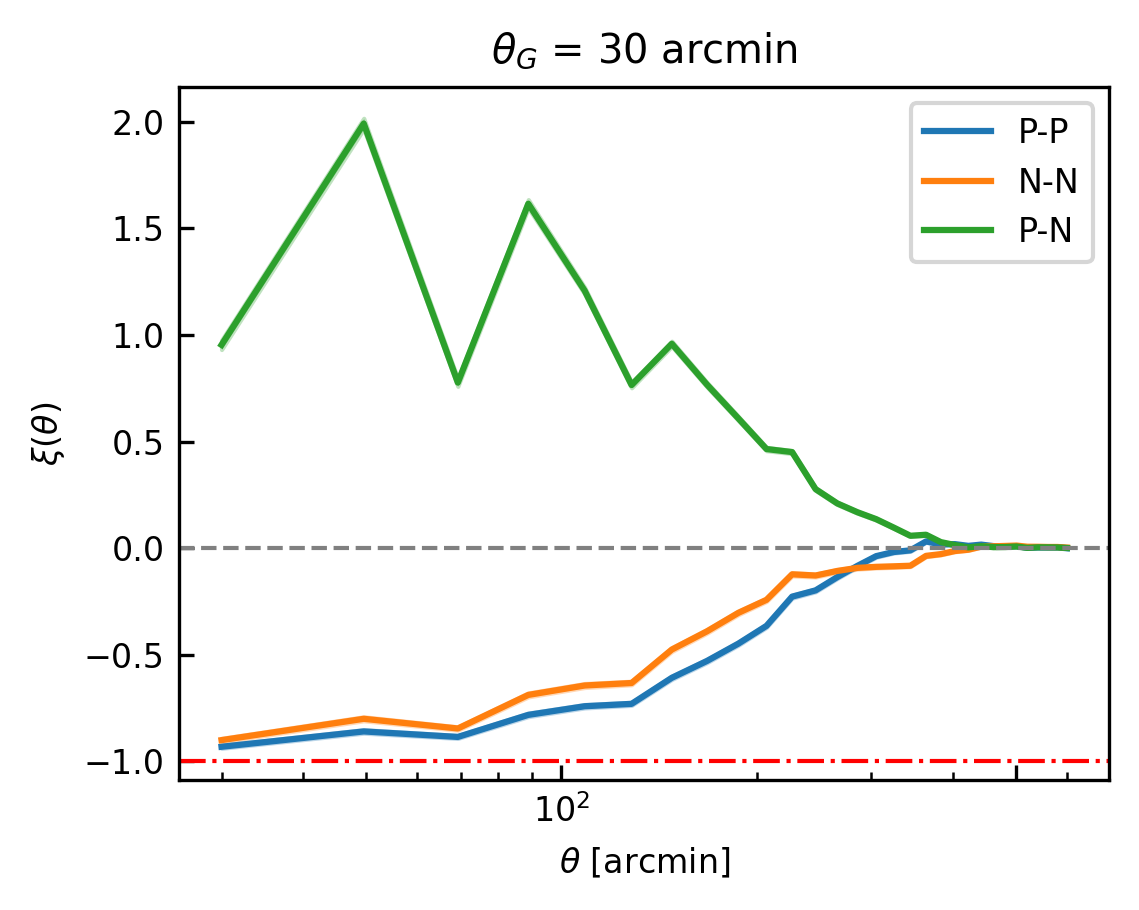
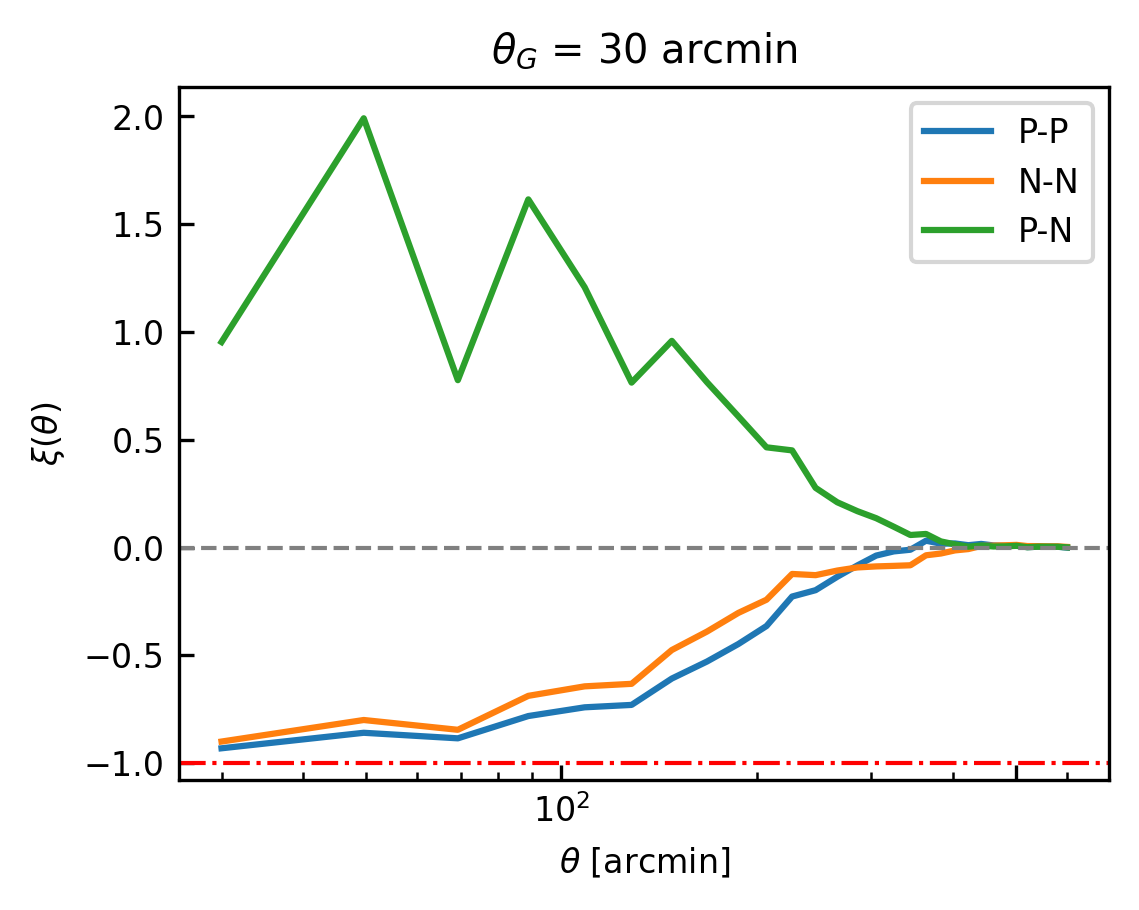
ups on plots

diff --git a/Fisher/PlotDerivs.py b/Fisher/PlotDerivs.py
@@ -577,7 +577,7 @@ mpl.rcParams['xtick.direction'] = 'in'
 mpl.rcParams['ytick.direction'] = 'in'
 mpl.rcParams['font.size'] = 8
 
-N_fid = 500
+N_fid = 1000
 N_deriv = n_seeds
 
 # # pdfs, 1x3, share y axis
@@ -793,17 +793,21 @@ ax = axes[0]
 
 # PP Omega_m
 y = deriv_nns_combined_s30_mean[40:50]
-y_err = np.sqrt(np.diag(deriv_nns_combined_s30_cov[40:50, 40:50])) / np.sqrt(n_seeds)
+y_err = np.sqrt(np.diag(deriv_nns_combined_s30_cov[40:50, 40:50]))
+y_mean_err = y_err / np.sqrt(n_seeds)
 
 ax.plot(bin_centers, y, c='C0', ls='-', label=r'$\partial C^{\rm PP}_{\rm 2NN}(\theta) / \partial \Omega_{\rm m}$')
 ax.fill_between(bin_centers, y - y_err, y + y_err, alpha=0.1, color='C0')
+ax.fill_between(bin_centers, y - y_mean_err, y + y_mean_err, alpha=0.3, color='C0')
 
 # PP sigma_8
 y = deriv_nns_combined_s30_mean[200:210]
-y_err = np.sqrt(np.diag(deriv_nns_combined_s30_cov[200:210, 200:210])) / np.sqrt(n_seeds)
+y_err = np.sqrt(np.diag(deriv_nns_combined_s30_cov[200:210, 200:210]))
+y_mean_err = y_err / np.sqrt(n_seeds)
 
 ax.plot(bin_centers, y, c='C1', ls='-', label=r'$\partial C^{\rm PP}_{\rm 2NN}(\theta) / \partial \sigma_8$')
 ax.fill_between(bin_centers, y - y_err, y + y_err, alpha=0.1, color='C1')
+ax.fill_between(bin_centers, y - y_mean_err, y + y_mean_err, alpha=0.3, color='C1')
 
 # NN Omega_m
 y = deriv_nns_combined_s30_mean[50:60]
@@ -822,17 +826,21 @@ ax = axes[1]
 
 # PN Omega_m
 y = deriv_nns_combined_s30_mean[60:70]
-y_err = np.sqrt(np.diag(deriv_nns_combined_s30_cov[60:70, 60:70])) / np.sqrt(n_seeds)
+y_err = np.sqrt(np.diag(deriv_nns_combined_s30_cov[60:70, 60:70]))
+y_mean_err = y_err / np.sqrt(n_seeds)
 
 ax.plot(bin_centers, y, c='C0', ls='-', label=r'$\partial C^{\rm PN}_{\rm 2NN}(\theta) / \partial \Omega_{\rm m}$')
 ax.fill_between(bin_centers, y - y_err, y + y_err, alpha=0.1, color='C0')
+ax.fill_between(bin_centers, y - y_mean_err, y + y_mean_err, alpha=0.3, color='C0')
 
 # PN sigma_8
 y = deriv_nns_combined_s30_mean[220:230]
-y_err = np.sqrt(np.diag(deriv_nns_combined_s30_cov[220:230, 220:230])) / np.sqrt(n_seeds)
+y_err = np.sqrt(np.diag(deriv_nns_combined_s30_cov[220:230, 220:230]))
+y_mean_err = y_err / np.sqrt(n_seeds)
 
 ax.plot(bin_centers, y, c='C1', ls='-', label=r'$\partial C^{\rm PN}_{\rm 2NN}(\theta) / \partial \sigma_8$')
 ax.fill_between(bin_centers, y - y_err, y + y_err, alpha=0.1, color='C1')
+ax.fill_between(bin_centers, y - y_mean_err, y + y_mean_err, alpha=0.3, color='C1')
 
 # NP Omega_m
 y = deriv_nns_combined_s30_mean[70:80]
@@ -947,16 +955,20 @@ bin_centers = np.logspace(np.log10(30), np.log10(600), 30)
 # xi_pp
 ax = axes[0]
 y = deriv_pp_corrs_s30_mean[0:30]
-y_err = np.sqrt(np.diag(deriv_pp_corrs_s30_cov[0:30, 0:30])) / np.sqrt(n_seeds)
+y_err = np.sqrt(np.diag(deriv_pp_corrs_s30_cov[0:30, 0:30]))
+y_mean_err = y_err / np.sqrt(n_seeds)
 
 ax.plot(bin_centers, y, c='C0', ls='-', label=r'$\partial \xi (\theta) / \partial \Omega_{\rm m}$')
-ax.fill_between(bin_centers, y - y_err, y + y_err, alpha=0.3, color='C0')
+ax.fill_between(bin_centers, y - y_err, y + y_err, alpha=0.1, color='C0')
+ax.fill_between(bin_centers, y - y_mean_err, y + y_mean_err, alpha=0.3, color='C0')
 
 y = deriv_pp_corrs_s30_mean[30:60]
-y_err = np.sqrt(np.diag(deriv_pp_corrs_s30_cov[30:60, 30:60])) / np.sqrt(n_seeds)
+y_err = np.sqrt(np.diag(deriv_pp_corrs_s30_cov[30:60, 30:60])) 
+y_mean_err = y_err / np.sqrt(n_seeds)
 
 ax.plot(bin_centers, y, c='C1', ls='-', label=r'$\partial \xi (\theta) / \partial \sigma_8$')
-ax.fill_between(bin_centers, y - y_err, y + y_err, alpha=0.3, color='C1')
+ax.fill_between(bin_centers, y - y_err, y + y_err, alpha=0.1, color='C1')
+ax.fill_between(bin_centers, y - y_mean_err, y + y_mean_err, alpha=0.3, color='C1')
 # ax.set_ylim(-1, 1)
 ax.set_title(r'$\partial \xi^{\rm PP}(\theta) / \partial p$')
 # ax.set_xscale('log')
@@ -966,16 +978,19 @@ ax.axhline(0, color='gray', linestyle='--', linewidth=0.8)
 # xi_nn
 ax = axes[1]
 y = deriv_nn_corrs_s30_mean[0:30]
-y_err = np.sqrt(np.diag(deriv_nn_corrs_s30_cov[0:30, 0:30])) / np.sqrt(n_seeds)
+y_err = np.sqrt(np.diag(deriv_nn_corrs_s30_cov[0:30, 0:30]))
+y_mean_err = y_err / np.sqrt(n_seeds)
 
 ax.plot(bin_centers, y, c='C0', ls='-')
-ax.fill_between(bin_centers, y - y_err, y + y_err, alpha=0.3, color='C0')
+ax.fill_between(bin_centers, y - y_err, y + y_err, alpha=0.1, color='C0')
+ax.fill_between(bin_centers, y - y_mean_err, y + y_mean_err, alpha=0.3, color='C0')
 
 y = deriv_nn_corrs_s30_mean[30:60]
-y_err = np.sqrt(np.diag(deriv_nn_corrs_s30_cov[30:60, 30:60])) / np.sqrt(n_seeds)
+y_err = np.sqrt(np.diag(deriv_nn_corrs_s30_cov[30:60, 30:60])) 
 
 ax.plot(bin_centers, y, c='C1', ls='-')
-ax.fill_between(bin_centers, y - y_err, y + y_err, alpha=0.3, color='C1')
+ax.fill_between(bin_centers, y - y_err, y + y_err, alpha=0.1, color='C1')
+ax.fill_between(bin_centers, y - y_mean_err, y + y_mean_err, alpha=0.3, color='C1')
 # ax.set_ylim(-1, 1)
 ax.set_title(r'$\partial \xi^{\rm NN}(\theta) / \partial p$')
 # ax.set_xscale('log')
@@ -984,16 +999,19 @@ ax.axhline(0, color='gray', linestyle='--', linewidth=0.8)
 # xi_pn
 ax = axes[2]
 y = deriv_pn_corrs_s30_mean[0:30]
-y_err = np.sqrt(np.diag(deriv_pn_corrs_s30_cov[0:30, 0:30])) / np.sqrt(n_seeds)
+y_err = np.sqrt(np.diag(deriv_pn_corrs_s30_cov[0:30, 0:30]))
+y_mean_err = y_err / np.sqrt(n_seeds)
 
 ax.plot(bin_centers, y, c='C0', ls='-')
-ax.fill_between(bin_centers, y - y_err, y + y_err, alpha=0.3, color='C0')
+ax.fill_between(bin_centers, y - y_err, y + y_err, alpha=0.1, color='C0')
+ax.fill_between(bin_centers, y - y_mean_err, y + y_mean_err, alpha=0.3, color='C0')
 
 y = deriv_pn_corrs_s30_mean[30:60]
-y_err = np.sqrt(np.diag(deriv_pn_corrs_s30_cov[30:60, 30:60])) / np.sqrt(n_seeds)
+y_err = np.sqrt(np.diag(deriv_pn_corrs_s30_cov[30:60, 30:60])) 
 
 ax.plot(bin_centers, y, c='C1', ls='-')
-ax.fill_between(bin_centers, y - y_err, y + y_err, alpha=0.3, color='C1')
+ax.fill_between(bin_centers, y - y_err, y + y_err, alpha=0.1, color='C1')
+ax.fill_between(bin_centers, y - y_mean_err, y + y_mean_err, alpha=0.3, color='C1')
 
 ax.set_title(r'$\partial \xi^{\rm PN}(\theta) / \partial p$')
 # ax.set_xscale('log')

diff --git a/Fisher/PlotDemos.py b/Fisher/PlotDemos.py
@@ -465,11 +465,11 @@ err_nn_s30 = np.sqrt(np.diag(cov_nn_fid_s30)) / np.sqrt(n_seeds)
 err_pn_s30 = np.sqrt(np.diag(cov_pn_fid_s30)) / np.sqrt(n_seeds)
 
 plt.plot(bin_centers, pp_fid_s30, label='P-P', color=color_map(0))
-plt.fill_between(bin_centers, pp_fid_s30 - err_pp_s30, pp_fid_s30 + err_pp_s30, color=color_map(0), alpha=0.3)
+# plt.fill_between(bin_centers, pp_fid_s30 - err_pp_s30, pp_fid_s30 + err_pp_s30, color=color_map(0), alpha=0.3)
 plt.plot(bin_centers, nn_fid_s30, label='N-N', color=color_map(1))
-plt.fill_between(bin_centers, nn_fid_s30 - err_nn_s30, nn_fid_s30 + err_nn_s30, color=color_map(1), alpha=0.3)
+# plt.fill_between(bin_centers, nn_fid_s30 - err_nn_s30, nn_fid_s30 + err_nn_s30, color=color_map(1), alpha=0.3)
 plt.plot(bin_centers, pn_fid_s30, label='P-N', color=color_map(2))
-plt.fill_between(bin_centers, pn_fid_s30 - err_pn_s30, pn_fid_s30 + err_pn_s30, color=color_map(2), alpha=0.3)
+# plt.fill_between(bin_centers, pn_fid_s30 - err_pn_s30, pn_fid_s30 + err_pn_s30, color=color_map(2), alpha=0.3)
 plt.axhline(0, color='grey', linestyle='--', linewidth=1)
 plt.axhline(-1, color='red', linestyle='-.', linewidth=1)
 plt.xlabel(r'$\theta$ [arcmin]')
